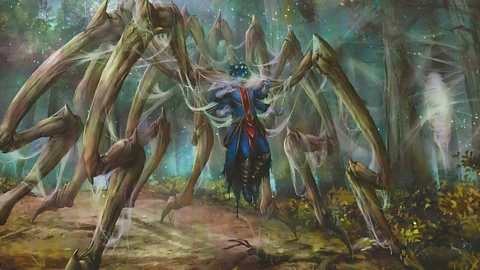
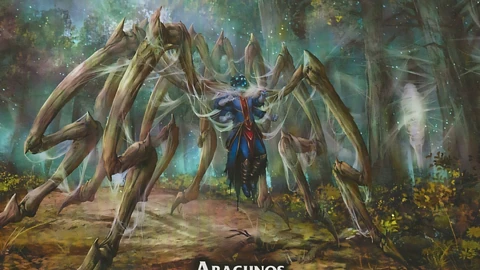
Unavailable nemeses as small crossed-out boxes; nemesis button portraits show the whole illustration

diff --git a/style.css b/style.css
@@ -149,11 +149,12 @@ body { overflow: hidden; }
 }
 /* Pulsante con illustrazione: un ritaglio dell'illustrazione della nemesi (Assets/nemesis/<slug>-portrait.webp) occupa
    la parte destra del pulsante e sfuma verso sinistra nello sfondo, sotto al nome */
-.nemesis-option.has-art { position: relative; overflow: hidden; min-height: 72px; padding-right: 40%; }
+.nemesis-option.has-art { position: relative; overflow: hidden; min-height: 72px; padding-right: 116px; }
 .nemesis-art {
-  position: absolute; top: 0; right: 0; bottom: 0; width: 62%; pointer-events: none;
-  background: center 30% / cover no-repeat;
-  -webkit-mask-image: linear-gradient(to right, transparent 0%, #000 55%); mask-image: linear-gradient(to right, transparent 0%, #000 55%);
+  /* Tutta l'illustrazione (16:9), alta quanto il pulsante: la larghezza segue la proporzione */
+  position: absolute; top: 0; right: 0; bottom: 0; aspect-ratio: 16 / 9; pointer-events: none;
+  background: center / cover no-repeat;
+  -webkit-mask-image: linear-gradient(to right, transparent 0%, #000 45%); mask-image: linear-gradient(to right, transparent 0%, #000 45%);
 }
 .nemesis-option.has-art .nemesis-name, .nemesis-option.has-art .nemesis-tags { position: relative; z-index: 1; }
 .nemesis-preview { margin: 12px 0 0; display: flex; justify-content: center; }
@@ -163,10 +164,20 @@ body { overflow: hidden; }
 .nemesis-option[aria-pressed='true'] .nemesis-tags { opacity: .85; }
 .nemesis-skeleton { min-height: 60px; border-radius: var(--ae-radius-md); background: var(--ae-surface-raised); opacity: .6; }
 .start-note { margin-top: 4px; color: var(--ae-text-muted); font: 500 14px/20px var(--ae-font-ui); }
-.nemesis-other { margin-top: 12px; border: 1px solid var(--ae-border); border-radius: var(--ae-radius-md); }
-.nemesis-other summary { min-height: 44px; display: flex; align-items: center; padding: 0 14px; color: var(--ae-text-muted); font: 600 14px/20px var(--ae-font-ui); cursor: pointer; }
-.nemesis-other-list { margin: 0; padding: 0 14px 12px; list-style: none; color: var(--ae-text-quiet); font: 500 14px/22px var(--ae-font-ui); }
-.nemesis-other-list small { margin-left: 6px; font-size: 12px; text-transform: uppercase; letter-spacing: .04em; }
+/* Nemesi non disponibili: box piccoli, solo il nome attenuato, barrati da una X rossa sottile (due diagonali) */
+.nemesis-unavailable { margin: 8px 0 0; padding: 0; list-style: none; display: grid; grid-template-columns: repeat(auto-fill, minmax(104px, 1fr)); gap: 6px; }
+.nemesis-locked {
+  position: relative; min-height: 36px; padding: 4px 8px; display: flex; align-items: center; justify-content: center; text-align: center;
+  border: 1px solid var(--ae-border); border-radius: var(--ae-radius-sm); background: var(--ae-surface); overflow: hidden;
+  color: var(--ae-text-quiet); font: 600 12px/15px var(--ae-font-ui); cursor: not-allowed; user-select: none;
+}
+.nemesis-locked::before {
+  content: ''; position: absolute; inset: 0; pointer-events: none;
+  background:
+    linear-gradient(to top right, transparent calc(50% - .75px), rgba(217, 94, 92, .7) calc(50% - .75px), rgba(217, 94, 92, .7) calc(50% + .75px), transparent calc(50% + .75px)),
+    linear-gradient(to bottom right, transparent calc(50% - .75px), rgba(217, 94, 92, .7) calc(50% - .75px), rgba(217, 94, 92, .7) calc(50% + .75px), transparent calc(50% + .75px));
+}
+.nemesis-locked span { position: relative; padding: 0 4px; background: var(--ae-surface); border-radius: 4px; }
 .start-error { display: flex; flex-direction: column; gap: 12px; color: var(--ae-danger); font: 500 14px/20px var(--ae-font-ui); white-space: pre-line; overflow-wrap: anywhere; }
 .start-actions { display: flex; flex-direction: column; gap: 8px; margin-bottom: 16px; }
 

diff --git a/script.js b/script.js
@@ -88,7 +88,6 @@ const I18N_IT = {
   cardDrawn: name => `Carta pescata: ${name}`,
   battle: n => `Battaglia ${n}`,
   battleMissing: 'Battaglia non indicata',
-  otherNemeses: n => `Altre nemesi (non disponibili) · ${n}`,
   startNew: 'Inizia partita',
   newGame: 'Nuova partita',
   replaceTitle: 'Sostituire la partita salvata?',
@@ -98,6 +97,8 @@ const I18N_IT = {
   resumeError: 'La partita salvata non si può riprendere',
   chooseNemesis: 'Scegli una nemesi disponibile per iniziare',
   nemesisCard: name => `Carta della nemesi ${name}`,
+  unavailableNemeses: 'Nemesi non disponibili',
+  unavailableNemesis: name => `${name}, non disponibile`,
   players: n => (n === 1 ? '1 giocatore' : `${n} giocatori`),
   undone: 'Azione annullata'
 };
@@ -888,13 +889,22 @@ function renderBosses(wave) {
   renderNemesisPreview();
   document.getElementById('nemesis-empty').hidden = playable.length > 0;
 
-  const other = document.getElementById('nemesis-other');
-  other.hidden = others.length === 0;
-  other.open = false;
-  document.getElementById('nemesis-other-summary').textContent = I18N_IT.otherNemeses(others.length);
-  document.getElementById('nemesis-other-list').replaceChildren(...others.map(info => {
-    const li = el('li', '', info.name);
-    if (info.miniExpansion) li.appendChild(el('small', '', info.miniExpansion));
+  // Nemesi non disponibili: box piccoli con solo il nome, barrati da una X rossa sottile, non cliccabili.
+  // Stanno subito sotto i pulsanti delle disponibili (il vecchio elenco a scomparsa non si usa più).
+  const oldOther = document.getElementById('nemesis-other');
+  if (oldOther) oldOther.hidden = true;
+  let unavailable = document.getElementById('nemesis-unavailable');
+  if (!unavailable) {
+    unavailable = el('ul', 'nemesis-unavailable');
+    unavailable.id = 'nemesis-unavailable';
+    unavailable.setAttribute('aria-label', I18N_IT.unavailableNemeses);
+    list.after(unavailable);
+  }
+  unavailable.hidden = others.length === 0;
+  unavailable.replaceChildren(...others.map(info => {
+    const li = el('li', 'nemesis-locked');
+    li.setAttribute('aria-label', I18N_IT.unavailableNemesis(info.name));
+    li.appendChild(el('span', '', info.name));
     return li;
   }));
   updateStartActions();

diff --git a/index.html b/index.html
@@ -84,13 +84,11 @@
         <label class="visually-hidden" for="wave-select">Wave</label>
         <select id="wave-select" class="ae-select"></select>
         <div id="nemesis-list" class="nemesis-list" role="group" aria-labelledby="nemesis-label"></div>
+        <!-- Nemesi non disponibili: solo il nome, barrate, non cliccabili -->
+        <ul id="nemesis-unavailable" class="nemesis-unavailable" aria-label="Nemesi non disponibili" hidden></ul>
         <!-- Carta della nemesi scelta (solo se c'è l'immagine: Assets/nemesis/nemesis-art.json) -->
         <figure id="nemesis-preview" class="nemesis-preview" hidden><img alt="" decoding="async"></figure>
         <p id="nemesis-empty" class="start-note" hidden>Nessuna nemesi disponibile in questa wave. Scegli un'altra wave per iniziare.</p>
-        <details id="nemesis-other" class="nemesis-other" hidden>
-          <summary id="nemesis-other-summary">Altre nemesi (non disponibili)</summary>
-          <ul id="nemesis-other-list" class="nemesis-other-list"></ul>
-        </details>
       </section>
 
       <label class="ae-switch-row" for="upgraded-switch">

diff --git a/tools/build-nemesis-art.py b/tools/build-nemesis-art.py
@@ -27,8 +27,8 @@ CARD_WIDTH = 1000
 PORTRAIT = (480, 270)  # 16:9
 QUALITY = 90
 
-# Ritaglio standard: fascia alta dell'illustrazione (sopra il nome), in proporzione 16:9
-DEFAULT_CROP = (0.08, 0.04, 0.92, None)
+# Ritaglio standard: quasi tutta l'illustrazione (sopra il nome), in proporzione 16:9
+DEFAULT_CROP = (0.02, 0.01, 0.98, None)
 CROPS = {
     # 'Arachnos': (0.08, 0.04, 0.92, None),
 }
